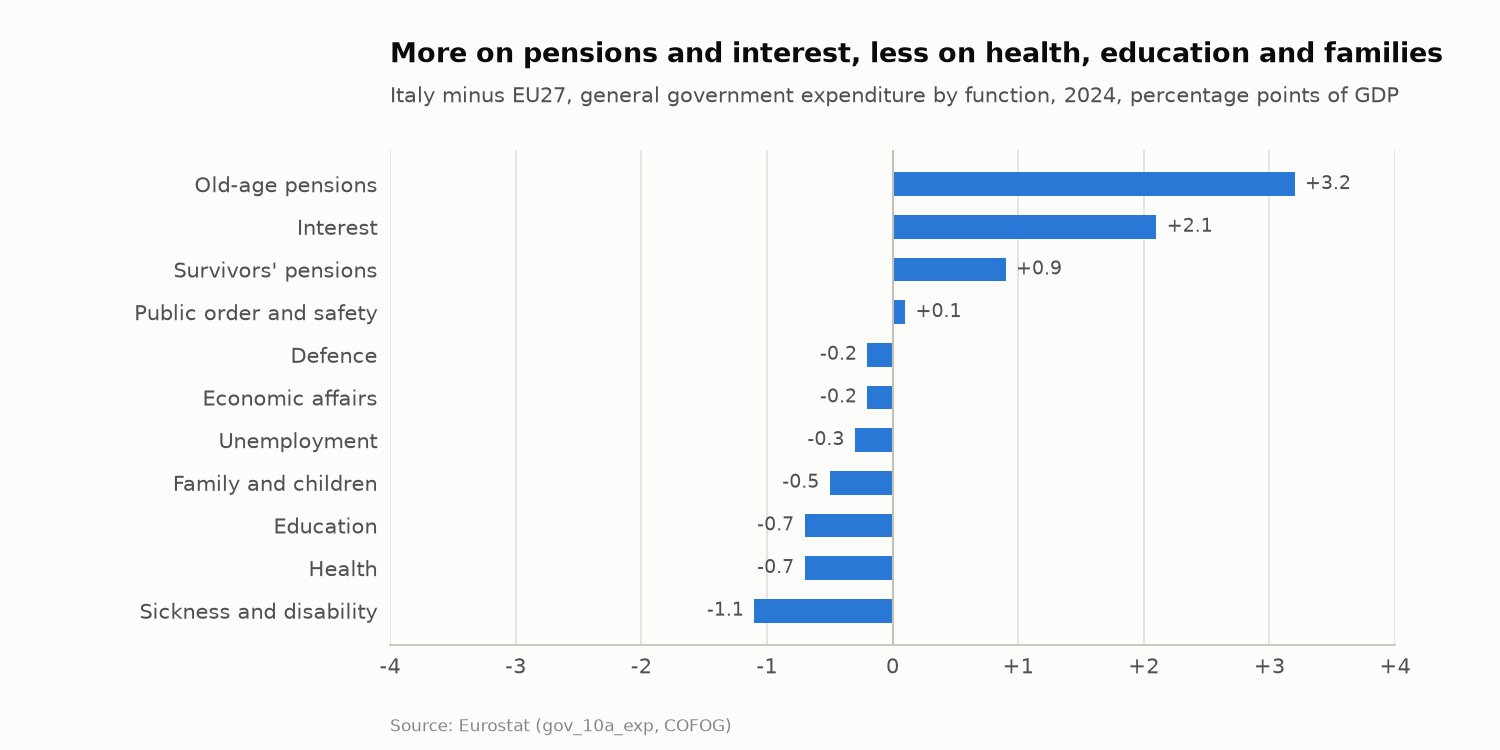
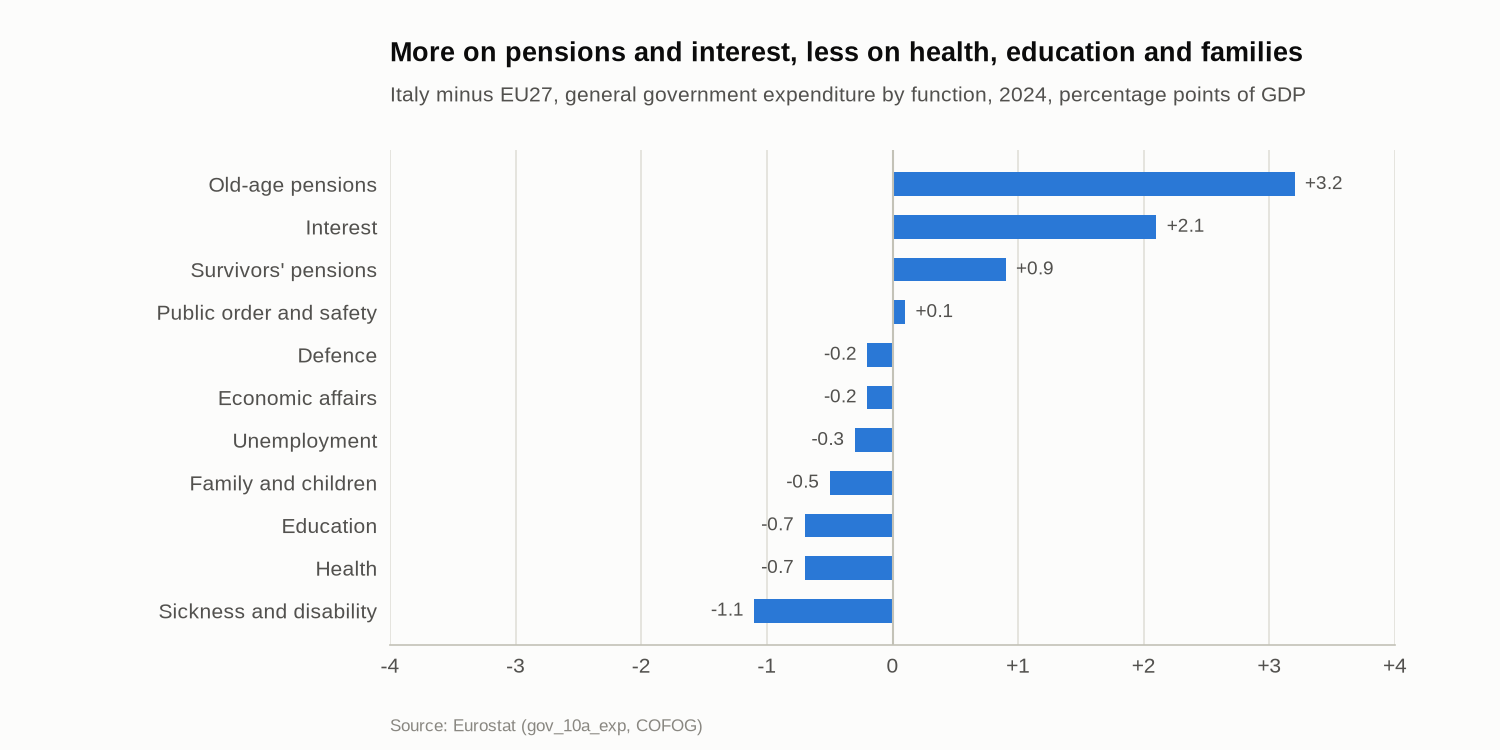
Modernise the chart style and regenerate the README figures
Use a neo-grotesque sans stack with a clear type hierarchy, 1.5 pt lines,
hairline bar separators and recessive panel titles, and add helpers for
takeaway headlines (headline, figure_headline), direct end labels
(label_ends) and in-bar value labels (label_bar_segments).

Claude-Session: https://claude.ai/code/session_011MrWtf8yCZFcdASRPb3Zx8

diff --git a/scripts/public_debt/public_debt/figstyle.py b/scripts/public_debt/public_debt/figstyle.py
@@ -31,12 +31,15 @@ THEMES = {
 }
 
 WIDTH, DPI = 10.0, 150
+# A neo-grotesque sans stack: the first family installed is used (Liberation Sans and FreeSans are metric clones of
+# Arial and Helvetica available on most Linux systems); DejaVu Sans, bundled with matplotlib, is the last resort.
+SANS = ["Inter", "Helvetica Neue", "Helvetica", "Arial", "Liberation Sans", "FreeSans", "DejaVu Sans"]
 
 
 def rc(t: dict) -> dict:
     return {
         "figure.facecolor": t["surface"], "axes.facecolor": t["surface"], "savefig.facecolor": t["surface"],
-        "font.family": "sans-serif", "font.size": 10,
+        "font.family": "sans-serif", "font.sans-serif": SANS, "font.size": 10,
         "text.color": t["ink"], "axes.labelcolor": t["ink2"], "xtick.color": t["muted"], "ytick.color": t["muted"],
         "xtick.labelcolor": t["ink2"], "ytick.labelcolor": t["ink2"],
         "axes.edgecolor": t["axis"], "axes.linewidth": 0.8, "axes.grid": True, "axes.grid.axis": "y",
@@ -108,6 +111,22 @@ def nice_limits(values, pad=0.08):
     return lo - pad * span, hi + pad * span
 
 
+def label_offsets(ax, values, min_gap=13.0) -> list[float]:
+    """Vertical offsets in points that keep end labels at least `min_gap` points apart (same order as `values`)."""
+    fig = ax.figure
+    fig.canvas.draw()
+    y_pts = [ax.transData.transform((0, v))[1] * 72.0 / fig.dpi for v in values]
+    order = np.argsort(y_pts)
+    placed, offsets = [], [0.0] * len(values)
+    for i in order:
+        y = y_pts[i]
+        if placed and y < placed[-1] + min_gap:
+            y = placed[-1] + min_gap
+        placed.append(y)
+        offsets[i] = y - y_pts[i]
+    return offsets
+
+
 # --------------------------------------------------------------------------- notebooks
 
 NOTEBOOK = THEMES["light"]
@@ -118,16 +137,78 @@ ORDINAL = ["#86b6ef", "#5598e7", "#2a78d6", "#1c5cab", "#104281"]   # one hue, l
 
 
 def notebook_style(dpi: int = 110) -> None:
-    """Matplotlib defaults for the notebooks: the light theme of the README charts (validated categorical
-    order, solid hairline grid behind the marks, no top or right spine, frameless legends, left-aligned
-    titles) and constrained layout, so that legends placed outside the axes, for example with
-    ``fig.legend(loc="outside lower center")``, never overlap titles, labels or data."""
+    """Matplotlib defaults for the notebooks, matching the README charts.
+
+    - validated categorical order, never cycled;
+    - neo-grotesque sans type with a clear hierarchy: a bold headline (see `headline`), a lighter subtitle, panel
+      titles and axis text in secondary ink;
+    - solid hairline grid behind the marks, no top, right or left spine, no tick marks;
+    - 1.5 pt lines, a thin surface-coloured edge on every bar and patch so that touching fills are separated by a
+      gap rather than an outline;
+    - frameless legends and constrained layout, so that legends placed outside the axes, for example with
+      ``fig.legend(loc="outside lower center")``, and direct labels never overlap titles, labels or data.
+    """
     import matplotlib as mpl
 
     params = rc(NOTEBOOK)
-    params.update({"figure.dpi": dpi, "figure.constrained_layout.use": True, "axes.titlesize": 11,
-                   "axes.titlelocation": "left", "axes.titlepad": 8, "legend.fontsize": 8.5})
+    params.update({
+        "figure.dpi": dpi, "figure.constrained_layout.use": True,
+        "figure.constrained_layout.h_pad": 0.06, "figure.constrained_layout.w_pad": 0.06,
+        "figure.titlesize": 13, "figure.titleweight": "bold",
+        "axes.titlesize": 10.5, "axes.titlelocation": "left", "axes.titlepad": 8, "axes.titlecolor": NOTEBOOK["ink2"],
+        "axes.labelsize": 9, "xtick.labelsize": 8.5, "ytick.labelsize": 8.5,
+        "legend.fontsize": 8.5, "legend.handlelength": 1.4, "legend.columnspacing": 1.6,
+        "lines.linewidth": 1.5, "patch.force_edgecolor": True, "patch.edgecolor": NOTEBOOK["surface"],
+        "patch.linewidth": 1.0,
+    })
     mpl.rcParams.update(params)
+
+
+def headline(ax, title: str, subtitle: str | None = None) -> None:
+    """Bold takeaway title and a lighter subtitle (what is plotted, in which units), left-aligned above `ax`.
+
+    Both are artists of the axes, so constrained layout reserves room for them. Keep the subtitle to one line.
+    """
+    pad = 8.0
+    if subtitle:
+        ax.annotate(subtitle, (0, 1), xycoords="axes fraction", xytext=(0, 7), textcoords="offset points",
+                    ha="left", va="bottom", fontsize=9.5, color=NOTEBOOK["ink2"], annotation_clip=False)
+        pad = 7 + 9.5 * 1.3 + 6
+    ax.set_title(title, loc="left", fontsize=12.5, fontweight="bold", color=NOTEBOOK["ink"], pad=pad)
+
+
+def figure_headline(fig, title: str) -> None:
+    """Bold takeaway title over a multi-panel figure; the panel titles say what each panel shows."""
+    fig.suptitle(title, x=0.01, ha="left", fontsize=13, fontweight="bold", color=NOTEBOOK["ink"])
+
+
+def label_ends(ax, series: dict, colors: dict, fmt=None, min_gap: float = 12.0) -> None:
+    """Direct labels at the right end of line series.
+
+    `series` maps a name to a pandas Series; each label is a dot with a surface ring on the last point and the name
+    (and, with `fmt`, the last value) in neutral ink. Labels are spread vertically to at least `min_gap` points.
+    """
+    names = list(series)
+    ends = [(series[n].index[-1], float(series[n].iloc[-1])) for n in names]
+    offsets = label_offsets(ax, [y for _, y in ends], min_gap=min_gap)
+    for name, (x, y), dy in zip(names, ends, offsets):
+        text = name if fmt is None else f"{name}  {fmt(y)}"
+        end_label(ax, NOTEBOOK, x, y, text, colors[name], dy=dy)
+
+
+def label_bar_segments(ax, bars, values, fmt, min_value: float) -> None:
+    """Value labels centred inside horizontal bar segments that are wide enough (`values` >= `min_value`), in
+    white or ink according to the luminance of the fill; smaller segments are left to the legend and the table."""
+    from matplotlib.colors import to_rgb
+
+    for bar, value in zip(bars, values):
+        if value < min_value:
+            continue
+        r, g, b = (c / 12.92 if c <= 0.04045 else ((c + 0.055) / 1.055) ** 2.4 for c in to_rgb(bar.get_facecolor()))
+        luminance = 0.2126 * r + 0.7152 * g + 0.0722 * b
+        ink = NOTEBOOK["ink"] if luminance > 0.18 else "white"
+        ax.text(bar.get_x() + bar.get_width() / 2, bar.get_y() + bar.get_height() / 2, fmt(value), ha="center",
+                va="center", fontsize=8, color=ink)
 
 
 def ordinal_colors(n: int) -> list:
